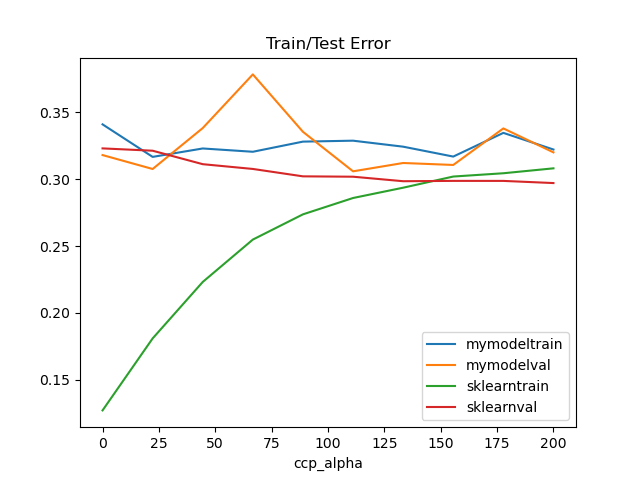
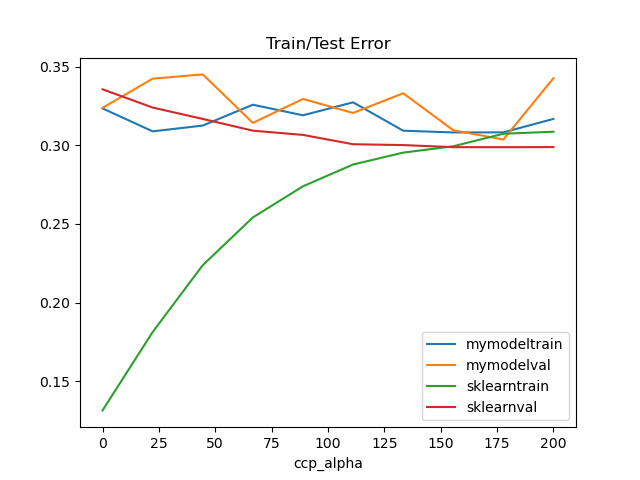
implemented some unittests, more to come

diff --git a/src/Random Forest/rfclass.py b/src/Random Forest/rfclass.py
@@ -6,8 +6,21 @@ class Node():
     '''
     Node class for Decision Tree implementation.
     '''
-    def __init__(self, X, y, ids = None, depth = 0, max_depth = 5, criterion = 'squared_error', max_features = None):
+    def __init__(self, X, y, ids = None, depth = 0, max_depth = 5, criterion = 'squared_error', max_features = None, min_samples_split = 2, min_samples_leaf = 1, ccp_alpha = 0.0):
         #full dataset if no ids passed
+        n_features = X.shape[1]
+        if isinstance(max_features, int):
+            self.max_features = max_features
+        elif isinstance(max_features, float):
+            self.max_features = int(max_features*n_features)
+        elif max_features == 'auto' or max_features is None:
+            self.max_features = n_features
+        elif max_features == 'sqrt':
+            self.max_features = int(np.sqrt(n_features))
+        elif max_features == 'log2':
+            self.max_features = int(np.log2(n_features))
+        else:
+            raise ValueError('max_features not in [int, float, "auto", "sqrt", "log2"]')
         if ids is not None:
             self.ids = ids
         else:
@@ -15,7 +28,7 @@ class Node():
         self.max_depth = max_depth
         self.importances = np.zeros(X.shape[1])   
         self.depth = depth
-    
+        
         self.value = np.mean(y[self.ids]) 
         
         #initialized later   
@@ -27,8 +40,7 @@ class Node():
         self.parent = None
         self.n_features = None
         self.feature_importances_ = None
-    
-        self.max_features = max_features 
+   
         
         abs_err = lambda y, i : np.sum(np.abs((y[i] - np.median(y[i]))))
         mse     = lambda y, i : np.sum((y[i] - np.mean(y[i]))**2)
@@ -40,9 +52,15 @@ class Node():
                     'absolute_error' : abs_err, 'poisson' : poisson}
         self.criterion = criteria[criterion]
         
-    def build_tree(self, X, y, min_samples_split = 2, min_samples_leaf = 2):
-        min_samples_split = max(2, min_samples_split)
-        if len(self.ids) < min_samples_split:    
+        self.min_samples_split = max(2, min_samples_split)
+        self.min_samples_leaf = max(1, min_samples_leaf)
+        self.ccp_alpha = ccp_alpha
+
+    def build_tree(self, X, y):
+        '''
+        Order samples by feature, test all splits along that feature. Repeat for all features included. Take best split.
+        '''
+        if len(self.ids) < self.min_samples_split:    
             self.feature_importances_ = np.zeros(X.shape[1])
             return self.feature_importances_
         
@@ -52,37 +70,40 @@ class Node():
         self.n_features = X.shape[1]
         self.split_criterion_value = np.inf
         self.split_value = None
-        self.split_features = np.random.choice(list(range(X.shape[1])), size = self.max_features(X.shape[1]))
-        
-        for criterion_id in self.split_features:
-            sorted_ids = np.argsort(X[self.ids, criterion_id])
+        self.split_features = np.random.choice(list(range(X.shape[1])), size = self.max_features, replace = False)
+
+
+        for split_feature in self.split_features:
+            sorted_ids = np.argsort(X[self.ids, split_feature])
             sorted_ids = np.take_along_axis(self.ids, sorted_ids, axis = 0)
             
-            for i in range(min_samples_leaf, len(sorted_ids) - min_samples_leaf):
+            for i in range(self.min_samples_leaf, len(sorted_ids) - self.min_samples_leaf + 1):
                 l_ids_temp = sorted_ids[:i]
                 r_ids_temp = sorted_ids[i:]
 
                 criterion_temp = self.calc_criterion(y, self.ids, l_ids_temp, r_ids_temp)
+
                 if self.split_criterion_value > criterion_temp:
                     self.split_criterion_value = criterion_temp
-                    self.split_value = 0.5*(X[l_ids_temp[-1], criterion_id] + X[r_ids_temp[0], criterion_id])
-                    self.split_feature = criterion_id
+                    self.split_value = 0.5*(X[l_ids_temp[-1], split_feature] + X[r_ids_temp[0], split_feature])
+                    self.split_feature = split_feature
                     l_ids = l_ids_temp
                     r_ids = r_ids_temp
 
-
         self.feature_importances_ = np.zeros(X.shape[1])
-        if not self.split_criterion_value == np.inf:
+        if self.split_criterion_value != np.inf:
             self.feature_importances_[self.split_feature] += self.criterion(y, self.ids) - self.split_criterion_value
             self.children.append(Node(X, y, ids = l_ids, criterion = self.crit, 
-                                      max_depth = self.max_depth, depth = self.depth + 1, max_features = self.max_features))
+                                      max_depth = self.max_depth, depth = self.depth + 1, max_features = self.max_features,
+                                      min_samples_split = self.min_samples_split, min_samples_leaf = self.min_samples_leaf, ccp_alpha = self.ccp_alpha))
             self.children.append(Node(X, y, ids = r_ids, criterion = self.crit,
-                                      max_depth = self.max_depth, depth = self.depth + 1, max_features = self.max_features))
+                                      max_depth = self.max_depth, depth = self.depth + 1, max_features = self.max_features,
+                                      min_samples_split = self.min_samples_split, min_samples_leaf = self.min_samples_leaf, ccp_alpha = self.ccp_alpha))
             
             if self.depth < self.max_depth:
                 for child in self.children:
-                    self.feature_importances_ += child.build_tree(X, y, min_samples_split = min_samples_split, min_samples_leaf = min_samples_leaf)
-                
+                    self.feature_importances_ += child.build_tree(X, y)
+
         return self.feature_importances_
                     
     
@@ -106,16 +127,16 @@ class Node():
         split_criterion_value = (len(l_ids)/len(ids))*self.criterion(y, l_ids) + (len(r_ids)/len(ids))*self.criterion(y, r_ids)
         return split_criterion_value
         
-    def ccp_prune(self, y, ccp_alpha):
+    def ccp_prune(self, y):
         if not len(self.children) == 0:
             branch_err = self.criterion(y, self.ids)
             leaf_err, N = self.calc_leaf_err(y)
             alpha_eff = (branch_err - leaf_err)/(N - 1)
-            if alpha_eff < ccp_alpha:
+            if alpha_eff < self.ccp_alpha:
                 self.children = []
             else:
                 for child in self.children:
-                    child.ccp_prune(y, ccp_alpha)
+                    child.ccp_prune(y)
             
     def calc_leaf_err(self, y):
         err = 0.0
@@ -132,7 +153,7 @@ class Node():
         return err, N
 
 class RegressionTree():
-    def __init__(self, max_depth, criterion, ccp_alpha, min_samples_split, min_samples_leaf, max_features):
+    def __init__(self, max_depth = 100, criterion = 'squared_error', ccp_alpha = 0.0, min_samples_split = 2, min_samples_leaf = 1, max_features = 1.0):
         self.root = None
         self.max_depth = max_depth
         self.ccp_alpha = ccp_alpha
@@ -142,10 +163,11 @@ class RegressionTree():
         self.max_features = max_features
              
     def fit(self, X, y):
-        self.root = Node(X, y, max_depth = self.max_depth, criterion = self.criterion, max_features = self.max_features)
-        self.root.build_tree(X, y, min_samples_split = self.min_samples_split, min_samples_leaf = self.min_samples_leaf)
-        if not self.ccp_alpha == 0.0:
-            self.root.ccp_prune(y, self.ccp_alpha)
+        self.root = Node(X, y, max_depth = self.max_depth, criterion = self.criterion, max_features = self.max_features, min_samples_split = self.min_samples_split,
+                         min_samples_leaf = self.min_samples_leaf,  ccp_alpha = self.ccp_alpha)
+        self.root.build_tree(X, y)
+        if self.ccp_alpha > 0.0:
+            self.root.ccp_prune(y)
         return self
         
     def predict(self, X):
@@ -160,35 +182,36 @@ class RegressionTree():
 
     
 class RandomForestRegressor():
-    def __init__(self, n_estimators = 10, max_depth = 4, criterion = 'squared_error', ccp_alpha = 0.0, max_features = None, min_samples_split = 2, min_samples_leaf = 2, n_jobs = 1):
-        if isinstance(max_features, int):
-            self.max_features = lambda _ : max_features
-        elif isinstance(max_features, float):
-            self.max_features = lambda n_features : int(max_features*n_features)
-        elif max_features == 'auto' or max_features is None:
-            self.max_features = lambda n_features : n_features
-        elif max_features == 'sqrt':
-            self.max_features = lambda n_features : int(np.sqrt(n_features))
-        elif max_features == 'log2':
-            self.max_features = lambda n_features : int(np.log2(n_features))
-        else:
-            raise ValueError('max_features not in [int, float, "auto", "sqrt", "log2"]')
-        
+    def __init__(self, n_estimators = 10, max_depth = 100, criterion = 'squared_error', ccp_alpha = 0.0, max_features = 1.0, min_samples_split = 2, min_samples_leaf = 1):
+        self.max_features = max_features
         self.trees = []
         for _ in range(n_estimators):
             self.trees.append(RegressionTree(max_depth = max_depth, criterion = criterion, ccp_alpha = ccp_alpha,  
                                              min_samples_split = min_samples_split, min_samples_leaf = min_samples_leaf, 
                                              max_features = self.max_features))
         self.n_features = None
-        self.n_jobs = n_jobs
 
     def fit(self, X, y):
         '''
         Fit each tree with sampled features and bootstrap samples.
         '''
-        self.n_features = X.shape[1]
+        
         self.X = X
         self.y = y
+
+        if self.X.ndim == 1:
+            X = X[:, None]
+        
+        self.n_features = X.shape[1]
+
+        if self.X.ndim > 2:
+            raise ValueError('X should have dims [n_samples, n_features]')
+
+        if self.y.ndim > 1:
+            raise ValueError('y should have dims [n_samples]')
+
+        if self.X.shape[0] != self.y.shape[0]:
+            raise ValueError('X and y should have same size in first dimension.')
         
         n_samples = [np.random.choice(list(range(X.shape[0])), size = int(X.shape[0]/10.0)) for _ in self.trees]
         for tree, samples in zip(self.trees, n_samples):
@@ -204,10 +227,7 @@ class RandomForestRegressor():
         '''
         Average over all tree predictions.
         '''
-        prediction = 0.0
-        prediction = np.sum([tree.predict(X) for tree in self.trees], axis = 0)
-        print(prediction.shape)
-        prediction /= len(self.trees)
+        prediction = np.mean([tree.predict(X) for tree in self.trees], axis = 0)
         return prediction
     
     def get_feature_importances(self):

diff --git a/src/Random Forest/rfunittests.py b/src/Random Forest/rfunittests.py
@@ -1,0 +1,65 @@
+import unittest
+from rfclass import RandomForestRegressor, RegressionTree
+import numpy as np
+
+class TestModel(unittest.TestCase):
+    def test_normal_fit(self):
+        #check that the expected normal case
+        self.model = RandomForestRegressor()
+        X = np.random.rand(100, 10)
+        y = np.random.rand(100)
+        self.model.fit(X, y)
+
+    def test_Xoneimplicitfeature(self):
+        #check that this case of an implicit number of features works
+        self.model = RandomForestRegressor()
+        X = np.random.rand(100)
+        y = np.random.rand(100)
+
+        self.model.fit(X, y)
+
+    def test_Xtoomanydims(self):
+        #check that X > 2 dimensions raises ValueError:
+        self.model = RandomForestRegressor()
+        X = np.random.rand(100, 20, 10)
+        y = np.random.rand(100)
+        with self.assertRaises(ValueError):
+            self.model.fit(X, y)
+
+    def test_ytoomanydims(self):
+        #check that y > 1 dimensions raises ValueError:
+        self.model = RandomForestRegressor()
+        X = np.random.rand(100, 10)
+        y = np.random.rand(100, 10)
+        with self.assertRaises(ValueError):
+            self.model.fit(X, y)
+
+    def test_Xycompatible(self):
+        #check that X and y need to be equal in sample dimension:
+        self.model = RandomForestRegressor()
+        X = np.random.rand(100, 10)
+        y = np.random.rand(67)
+        with self.assertRaises(ValueError):
+            self.model.fit(X, y)
+
+    def test_split_criterion_decreases_after_split(self):
+        #test that the split criterion decreases after splitting, which is true in a strict mathematical sense
+        #if this fails, the split criterion is probably calculated erroneously 
+        self.model = RegressionTree()
+        X = np.random.rand(100, 10)
+        y = np.random.rand(100)
+        self.model.fit(X, y)
+        node = self.model.root
+        def test_helper(node):
+            if node.children is None:
+                return None
+            for child in node.children:
+                assertGreaterEqual(node.split_criterion_value, node.child.split_criterion_value)
+                test_helper(child)
+
+
+
+
+
+if __name__ == '__main__':
+    unittest.main()

diff --git a/src/Random Forest/Random_Forest.py b/src/Random Forest/Random_Forest.py
@@ -23,12 +23,12 @@ if __name__ == '__main__':
     X_train = scaler.fit_transform(X_train)
     X_val = scaler.transform(X_val)
 
-    model = RandomForestRegressor(n_estimators = 10)
+    model = RandomForestRegressor()
     model.fit(X_train, y_train)
 
     plt.plot(model.feature_importances_, label = 'mymodel')
 
-    model = sklearn.ensemble.RandomForestRegressor(n_estimators = 10)
+    model = sklearn.ensemble.RandomForestRegressor()
     model.fit(X_train, y_train)
 
     plt.plot(model.feature_importances_, label = 'sklearn')
@@ -47,8 +47,8 @@ if __name__ == '__main__':
     
     dataset = datasets[1]
 
-    params = ['n_jobs', 'min_samples_leaf', 'min_samples_split',  'ccp_alpha', 'n_estimators']
-    ranges = [range(1, 32, 2), range(2, 100, 10), range(2, 100, 10), np.linspace(0, 200.0, 10), range(1,10)]
+    params = ['min_samples_leaf', 'min_samples_split',  'ccp_alpha', 'n_estimators', 'max_features']
+    ranges = [range(2, 100, 10), range(2, 100, 10), np.linspace(0, 200.0, 10), range(1, 100, 10), np.linspace(0.1, 1, 5)]
     for param_name, value_range in zip(params, ranges):
         plot_dict_my = benchmark_params(RandomForestRegressor, dataset, param_name, value_range, 'mymodel')
         plot_dict_sk = benchmark_params(sklearn.ensemble.RandomForestRegressor, dataset, param_name, value_range, 'sklearn')

diff --git a/src/Random Forest/rfbenchmark.py b/src/Random Forest/rfbenchmark.py
@@ -44,8 +44,6 @@ def benchmark_params(model_class, dataset, param_name, param_values, label):
     X_train = scaler.fit_transform(X_train)
     X_val = scaler.transform(X_val)
     
-    xvalues = []
-    runtimes = []
     plot_dict = {'x_values' : [], 'runtime' : [], 'train_err' : [], 'val_err' : [], 'label' : label, 'xlabel' : param_name}
     for param_value in param_values:
         param_dict = {param_name : param_value}
@@ -69,7 +67,6 @@ def plot_benchmark(plot_dict_list):
         val_err = plot_dict['val_err']
         label = plot_dict['label']
         xlabel = plot_dict['xlabel']
-
 
         plt.plot(xvalues, runtime, label = label)
         plt.title('Training Time')

diff --git a/README.md b/README.md
@@ -11,7 +11,7 @@ First we compare the base performance of both models with three datasets from th
 ![This is an image](figures/numDataset_vs_runtime.png)
 
 The sklearn implementation tends to have lower train and test errors, except for one small exception.
-Training times are similar for small datasets, but for the first dataset which is much larger my model is much slower.
+Training times are similar for small datasets, but for the first dataset, which is much larger, my model is much slower.
 This is probably due to a lack of parallelization of my model.
 
 # Finetuning Parameters
@@ -21,7 +21,7 @@ We test the behaviour of both the train and validation error as well as the runt
 ![This is an image](figures/ccp_alpha_vs_error.png)
 ![This is an image](figures/ccp_alpha_vs_runtime.png)
 
-cost-complexity pruning prunes the Trees in order to reduce complexity, which hopefully leads to less overfitting.
+Cost-Complexity Pruning prunes the trees in order to reduce complexity, which hopefully leads to less overfitting.
 My model doesn't seem to benefit very much from the pruning, however it also fits a lot less to the training set than the sklearn model, so of course there won't be a benefit.
 Sklearn's ccp increases training error by a lot, while very slightly increasing validation performance.
 Runtime is unaffected for sklearn, while my model has lower training time for aggressive pruning, which doesn't make any sense to me.
